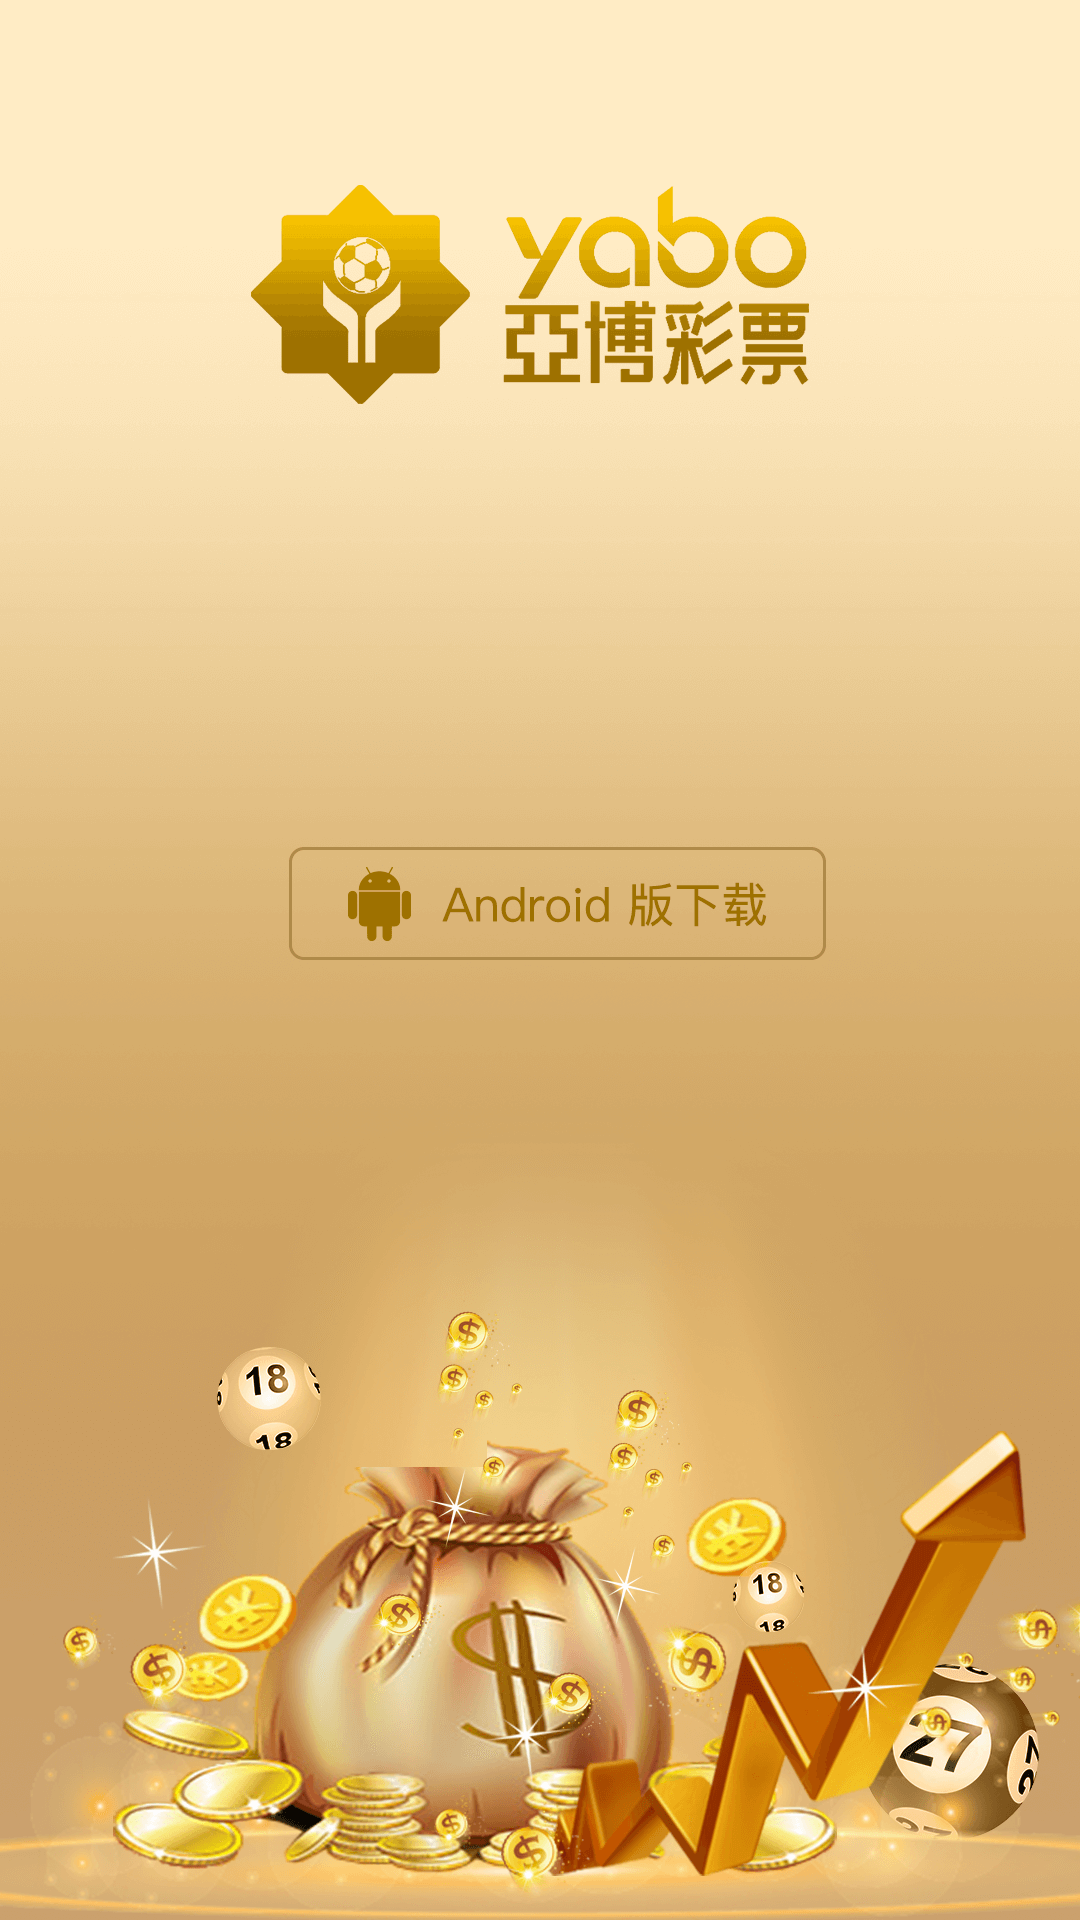
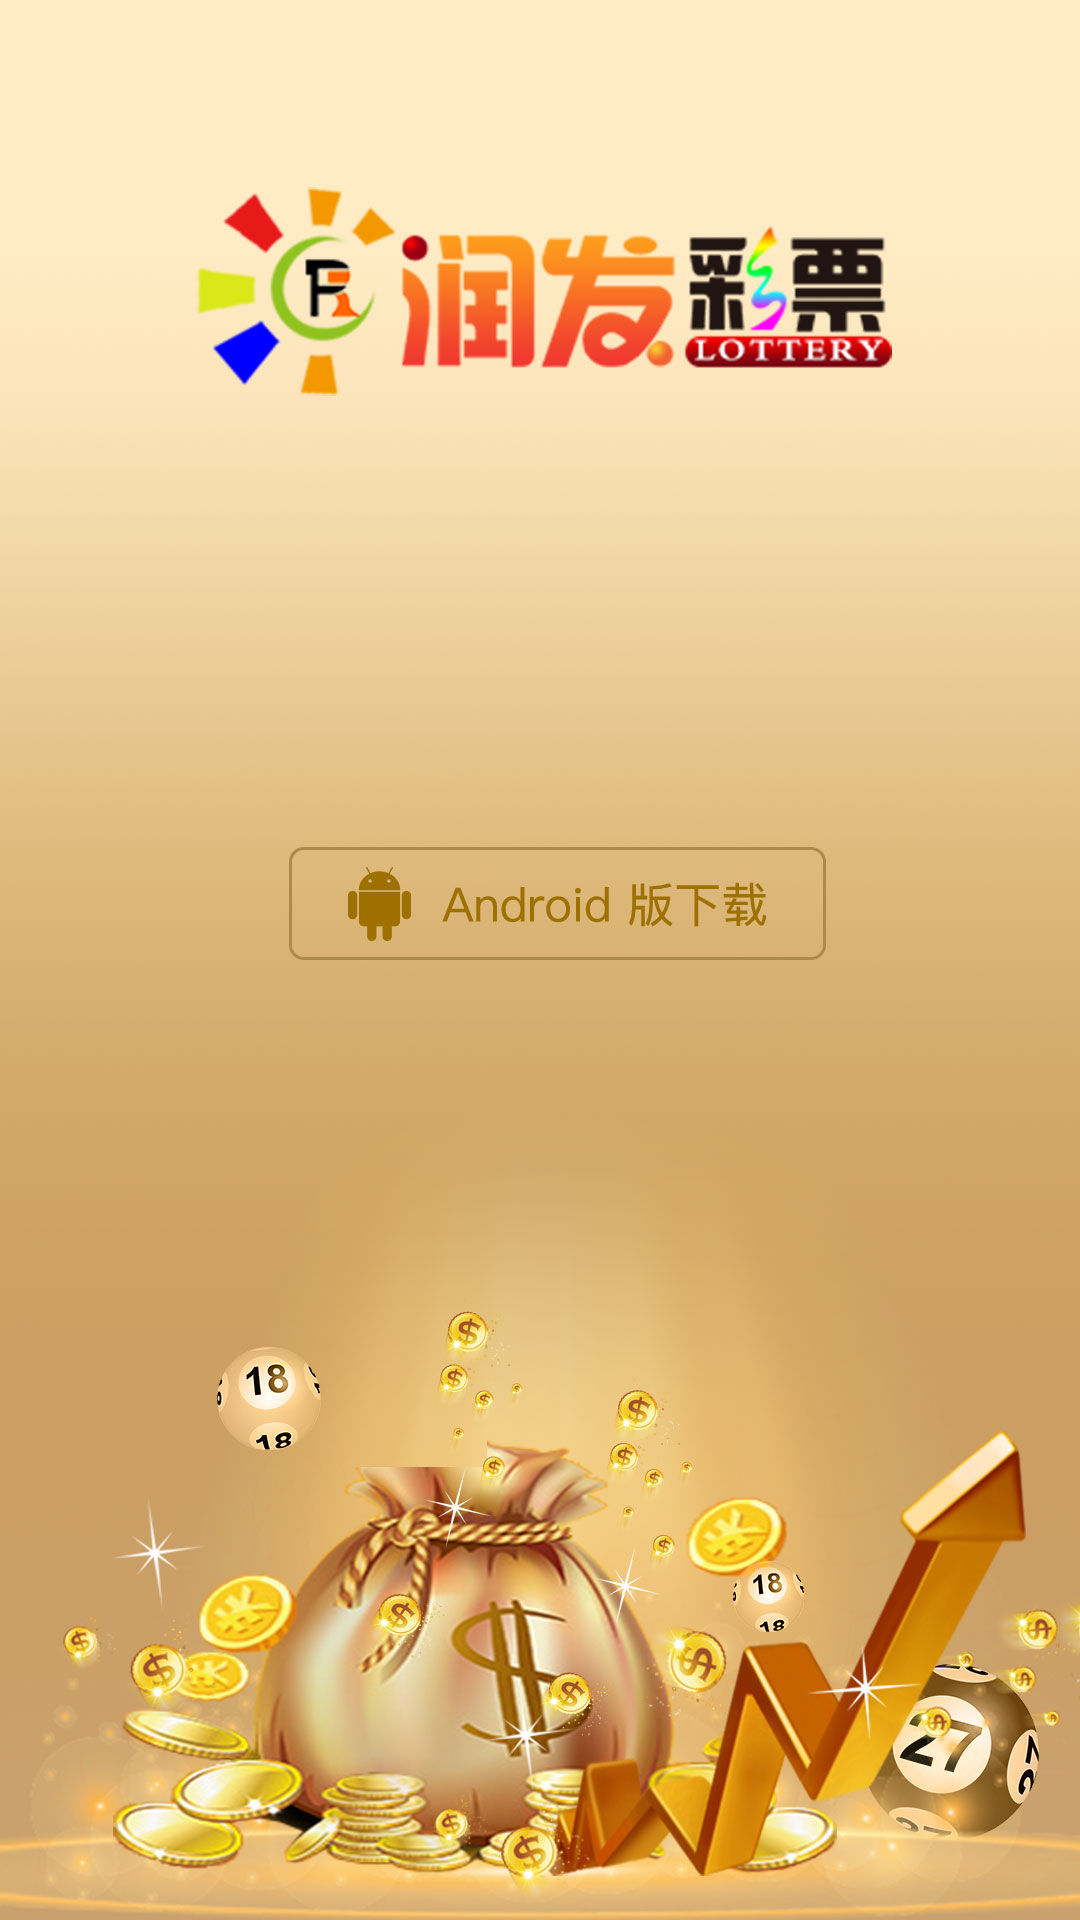
优化webpack

Changed region(s): [[0.1833, 0.0938, 0.825, 0.2188]]

diff --git a/src/router.js b/src/router.js
@@ -1,92 +1,161 @@
 
 //主入口
-import boot from './components/login/boot.vue';
-import login from './components/login/login.vue';
-import guid from './components/guid/guid.vue';
-import index from './components/index/index.vue';
-import jumpIndex from './components/index/jumpIndex.vue';
-import register from './components/register/register.vue';
-import download from "./components/download/download.vue";
-import chatroom from "./components/chatroom/chatroom.vue";
+// import boot from './components/login/boot.vue';
+const boot = () => import("./components/login/boot.vue")
+// import login from './components/login/login.vue';
+const login = () => import("./components/login/login.vue")
+// import guid from './components/guid/guid.vue';
+const guid = () => import("./components/guid/guid.vue")
+// import index from './components/index/index.vue';
+const index = () => import("./components/index/index.vue")
+// import jumpIndex from './components/index/jumpIndex.vue';
+const jumpIndex = () => import("./components/index/jumpIndex.vue")
+// import register from './components/register/register.vue';
+const register = () => import("./components/register/register.vue")
+// import download from "./components/download/download.vue";
+const download = () => import("./components/download/download.vue")
+// import chatroom from "./components/chatroom/chatroom.vue";
+const chatroom = () => import("./components/chatroom/chatroom.vue")
 
 //index 下面子路由
-import lottery from './components/lottery/lottery.vue'; //首页
-import result from './components/result/result.vue'; //开奖
-import account from './components/account/account.vue'; //账户
-import setting from './components/setting/setting.vue'; //设置
-import lotteryHome from './components/lotteryHome/lotteryHome.vue'; //彩票大厅
-
+// import lottery from './components/lottery/lottery.vue'; //首页
+const lottery = () => import("./components/lottery/lottery.vue")
+// import result from './components/result/result.vue'; //开奖
+const result = () => import("./components/result/result.vue")
+// import account from './components/account/account.vue'; //账户
+const account = () => import("./components/account/account.vue")
+// import setting from './components/setting/setting.vue'; //设置
+const setting = () => import("./components/setting/setting.vue")
+// import lotteryHome from './components/lotteryHome/lotteryHome.vue'; //彩票大厅
+const lotteryHome = () => import("./components/lotteryHome/lotteryHome.vue")
 //account 里的页面
-import betrecord from './components/account/betrecord.vue'; //投注记录
-import KgBetrecord from './components/account/kg_betrecord.vue'; //kg投注记录
-import zuihaoRecord from './components/account/zuihaoRecord.vue'; //追号记录
-import KgZuihaoRecord from './components/account/kg_zuihaoRecord.vue'; //追号记录
-import myReport from './components/account/myReport.vue'; //我的报表
-import moneyRecord from './components/account/moneyRecord.vue'; //帐变记录
-import agentCenter from './components/account/agentCenter.vue'; //代理中心
-import activity from './components/account/activity.vue'; //优惠活动
-import bonusDetails from './components/account/bonusDetails.vue'; //奖金详情
-import lotteryLimited from './components/account/lotteryLimited.vue'; //奖金详情
-import statis from './components/account/statis.vue'; //统计
-import fklb from './components/account/fklb.vue'; //反馈列表
-import fkyj from './components/account/fkyj.vue'; //反馈意见
-import email from './components/account/email.vue'; //站内信
-import emailDetails from './components/account/emailDetails.vue'; //站内信详情
-import emailSend from './components/account/emailSend.vue'; //站内信发送
-import memberManagement from './components/account/memberManagement.vue'; //会员管理
-import registerTheLink from './components/account/registerTheLink.vue'; //注册链接列表
-import newUsers from './components/account/newUsers.vue'; //新增用户
-import quotaConversion from './components/account/quotaConversion.vue'; //额度转换
-import chongzhi from './components/account/chongzhi.vue'; //充值
-import report from './components/account/report.vue'; //彩票，视讯报表
-import bettingDetails from './components/account/bettingDetails.vue'; //投注详情
-import newRegisterLink from './components/account/newRegisterLink.vue'; //新增注册链接
-import zbmx from './components/account/zbmx.vue'; //帐变明细
-import cpzb from './components/account/cpzb.vue'; //彩票账变
-import kgzb from './components/account/kgzb.vue'; //彩票账变
-import withdraw from './components/account/withdraw.vue'; //提现
-import team from './components/account/team.vue'; //报表总览,团队报表
-import teamReport from './components/account/teamReport.vue'; //团队盈亏
-import teamLottery from './components/account/teamLottery.vue'; //团队彩票
-import teamKGLottery from './components/account/teamKGLottery.vue'; //团队KG
-import generalize from './components/account/generalize.vue'; //邀请推广
+// import betrecord from './components/account/betrecord.vue'; //投注记录
+const betrecord = () => import("./components/account/betrecord.vue")
+// import KgBetrecord from './components/account/kg_betrecord.vue'; //kg投注记录
+const KgBetrecord = () => import("./components/account/kg_betrecord.vue")
+// import zuihaoRecord from './components/account/zuihaoRecord.vue'; //追号记录
+const zuihaoRecord = () => import("./components/account/zuihaoRecord.vue")
+// import KgZuihaoRecord from './components/account/kg_zuihaoRecord.vue'; //追号记录
+const KgZuihaoRecord = () => import("./components/account/kg_zuihaoRecord.vue")
+// import myReport from './components/account/myReport.vue'; //我的报表
+const myReport = () => import("./components/account/myReport.vue")
+// import moneyRecord from './components/account/moneyRecord.vue'; //帐变记录
+const moneyRecord = () => import("./components/account/moneyRecord.vue")
+// import agentCenter from './components/account/agentCenter.vue'; //代理中心
+const agentCenter = () => import("./components/account/agentCenter.vue")
+// import activity from './components/account/activity.vue'; //优惠活动
+const activity = () => import("./components/account/activity.vue")
+// import bonusDetails from './components/account/bonusDetails.vue'; //奖金详情
+const bonusDetails = () => import("./components/account/bonusDetails.vue")
+// import lotteryLimited from './components/account/lotteryLimited.vue'; //奖金详情
+const lotteryLimited = () => import("./components/account/lotteryLimited.vue")
+// import statis from './components/account/statis.vue'; //统计
+const statis = () => import("./components/account/statis.vue")
+// import fklb from './components/account/fklb.vue'; //反馈列表
+const fklb = () => import("./components/account/fklb.vue")
+// import fkyj from './components/account/fkyj.vue'; //反馈意见
+const fkyj = () => import("./components/account/fkyj.vue")
+// import email from './components/account/email.vue'; //站内信
+const email = () => import("./components/account/email.vue")
+// import emailDetails from './components/account/emailDetails.vue'; //站内信详情
+const emailDetails = () => import("./components/account/emailDetails.vue")
+// import emailSend from './components/account/emailSend.vue'; //站内信发送
+const emailSend = () => import("./components/account/emailSend.vue")
+// import memberManagement from './components/account/memberManagement.vue'; //会员管理
+const memberManagement = () => import("./components/account/memberManagement.vue")
+// import registerTheLink from './components/account/registerTheLink.vue'; //注册链接列表
+const registerTheLink = () => import("./components/account/registerTheLink.vue")
+// import newUsers from './components/account/newUsers.vue'; //新增用户
+const newUsers = () => import("./components/account/newUsers.vue")
+// import quotaConversion from './components/account/quotaConversion.vue'; //额度转换
+const quotaConversion = () => import("./components/account/quotaConversion.vue")
+// import chongzhi from './components/account/chongzhi.vue'; //充值
+const chongzhi = () => import("./components/account/chongzhi.vue")
+// import report from './components/account/report.vue'; //彩票，视讯报表
+const report = () => import("./components/account/report.vue")
+// import bettingDetails from './components/account/bettingDetails.vue'; //投注详情
+const bettingDetails = () => import("./components/account/bettingDetails.vue")
+// import newRegisterLink from './components/account/newRegisterLink.vue'; //新增注册链接
+const newRegisterLink = () => import("./components/account/newRegisterLink.vue")
+// import zbmx from './components/account/zbmx.vue'; //帐变明细
+const zbmx = () => import("./components/account/zbmx.vue")
+// import cpzb from './components/account/cpzb.vue'; //彩票账变
+const cpzb = () => import("./components/account/cpzb.vue")
+// import kgzb from './components/account/kgzb.vue'; //彩票账变
+const kgzb = () => import("./components/account/kgzb.vue")
+// import withdraw from './components/account/withdraw.vue'; //提现
+const withdraw = () => import("./components/account/withdraw.vue")
+// import team from './components/account/team.vue'; //报表总览,团队报表
+const team = () => import("./components/account/team.vue")
+// import teamReport from './components/account/teamReport.vue'; //团队盈亏
+const teamReport = () => import("./components/account/teamReport.vue")
+// import teamLottery from './components/account/teamLottery.vue'; //团队彩票
+const teamLottery = () => import("./components/account/teamLottery.vue")
+// import teamKGLottery from './components/account/teamKGLottery.vue'; //团队KG
+const teamKGLottery = () => import("./components/account/teamKGLottery.vue")
+// import generalize from './components/account/generalize.vue'; //邀请推广
+const generalize = () => import("./components/account/generalize.vue")
 
 //setting 里的页面
-import bankControl from './components/setting/bankControl.vue'; //银行卡管理
-import userInfor from './components/setting/userInfor.vue'; //用户信息
-import loadPassword from './components/setting/loadPassword.vue'; //修改登录密码
-import addBankcard from './components/setting/addBankcard.vue'; //添加银行卡
-import modifyPassword from './components/setting/modifyPassword.vue'; //修改资金密码
-import moreInfo from './components/setting/moreInfo.vue'; //更多信息
-import maintain from './components/maintain/maintain.vue'; //维护页面
-import notice from './components/setting/notice.vue'; //公告页面
-import question from './components/setting/question.vue'; //公告页面
-import method from './components/setting/method.vue'; //玩法说明页面
-import explain from './components/kggame/explain/explain.vue'; //玩法说明页面
-
+// import bankControl from './components/setting/bankControl.vue'; //银行卡管理
+const bankControl = () => import("./components/setting/bankControl.vue")
+// import userInfor from './components/setting/userInfor.vue'; //用户信息
+const userInfor = () => import("./components/setting/userInfor.vue")
+// import loadPassword from './components/setting/loadPassword.vue'; //修改登录密码
+const loadPassword = () => import("./components/setting/loadPassword.vue")
+// import addBankcard from './components/setting/addBankcard.vue'; //添加银行卡
+const addBankcard = () => import("./components/setting/addBankcard.vue")
+// import modifyPassword from './components/setting/modifyPassword.vue'; //修改资金密码
+const modifyPassword = () => import("./components/setting/modifyPassword.vue")
+// import moreInfo from './components/setting/moreInfo.vue'; //更多信息
+const moreInfo = () => import("./components/setting/moreInfo.vue")
+// import maintain from './components/maintain/maintain.vue'; //维护页面
+const maintain = () => import("./components/maintain/maintain.vue")
+// import notice from './components/setting/notice.vue'; //公告页面
+const notice = () => import("./components/setting/notice.vue")
+// import question from './components/setting/question.vue'; //公告页面
+const question = () => import("./components/setting/question.vue")
+// import method from './components/setting/method.vue'; //玩法说明页面
+const method = () => import("./components/setting/method.vue")
+// import explain from './components/kggame/explain/explain.vue'; //玩法说明页面
+const explain = () => import("./components/kggame/explain/explain.vue")
 //result 里的页面
-import lotteryInformationTrend from './components/result/lotteryInformationTrend.vue'; //开奖信息
-
+// import lotteryInformationTrend from './components/result/lotteryInformationTrend.vue'; //开奖信息
+const lotteryInformationTrend = () => import("./components/result/lotteryInformationTrend.vue")
 //lottery 里的页面
-import lotteryBet from './components/lottery/lotteryBet.vue'; //彩票投注
-import lotteryTrend from './components/lottery/lotteryTrend.vue'; //走势图
-import bettingList from './components/lottery/bettingList.vue'; //投注列表
-import lotteryFavorites from './components/lottery/lotteryFavorites.vue';
-import lotteryFavoritesEdit from './components/lottery/lotteryFavoritesEdit.vue';
-import thirdGame from './components/lottery/thirdGame.vue';
-import appTrend from './components/lottery/appTrend.vue';
+// import lotteryBet from './components/lottery/lotteryBet.vue'; //彩票投注
+const lotteryBet = () => import("./components/lottery/lotteryBet.vue")
+// import lotteryTrend from './components/lottery/lotteryTrend.vue'; //走势图
+const lotteryTrend = () => import("./components/lottery/lotteryTrend.vue")
+// import bettingList from './components/lottery/bettingList.vue'; //投注列表
+const bettingList = () => import("./components/lottery/bettingList.vue")
+// import lotteryFavorites from './components/lottery/lotteryFavorites.vue';
+const lotteryFavorites = () => import("./components/lottery/lotteryFavorites.vue")
+// import lotteryFavoritesEdit from './components/lottery/lotteryFavoritesEdit.vue';
+const lotteryFavoritesEdit = () => import("./components/lottery/lotteryFavoritesEdit.vue")
+// import thirdGame from './components/lottery/thirdGame.vue';
+const thirdGame = () => import("./components/lottery/thirdGame.vue")
+// import appTrend from './components/lottery/appTrend.vue';
+const appTrend = () => import("./components/lottery/appTrend.vue")
 
 //kggame 页面
-import kgGameBet from './components/kggame/kgGameBet.vue'; //kg投注
+// import kgGameBet from './components/kggame/kgGameBet.vue'; //kg投注
+const kgGameBet = () => import("./components/kggame/kgGameBet.vue")
 
-
-import trdPlatformAuth from './components/trdPlatform/trdPlatformAuth.vue';
-import bindUser from './components/trdPlatform/bindUser.vue'; //绑定登录
-import newBindUser from './components/trdPlatform/newBindUser.vue'; //绑定登录
-import autoRegSuccessed from './components/trdPlatform/autoRegSuccessed.vue'; //绑定成功
-import trdAuthSuccessed from './components/trdPlatform/trdAuthSuccessed.vue'; //绑定成功
-import createUser from './components/trdPlatform/createUser.vue'; //注册绑定登录
-import newCreateUser from './components/trdPlatform/newCreateUser.vue'; //注册绑定登录
+// import trdPlatformAuth from './components/trdPlatform/trdPlatformAuth.vue';
+const trdPlatformAuth = () => import("./components/trdPlatform/trdPlatformAuth.vue")
+// import bindUser from './components/trdPlatform/bindUser.vue'; //绑定登录
+const bindUser = () => import("./components/trdPlatform/bindUser.vue")
+// import newBindUser from './components/trdPlatform/newBindUser.vue'; //绑定登录
+const newBindUser = () => import("./components/trdPlatform/newBindUser.vue")
+// import autoRegSuccessed from './components/trdPlatform/autoRegSuccessed.vue'; //绑定成功
+const autoRegSuccessed = () => import("./components/trdPlatform/autoRegSuccessed.vue")
+// import trdAuthSuccessed from './components/trdPlatform/trdAuthSuccessed.vue'; //绑定成功
+const trdAuthSuccessed = () => import("./components/trdPlatform/trdAuthSuccessed.vue")
+// import createUser from './components/trdPlatform/createUser.vue'; //注册绑定登录
+const createUser = () => import("./components/trdPlatform/createUser.vue")
+// import newCreateUser from './components/trdPlatform/newCreateUser.vue'; //注册绑定登录
+const newCreateUser = () => import("./components/trdPlatform/newCreateUser.vue")
 
 
 

diff --git a/src/assets/platform/main/platform.less b/src/assets/platform/main/platform.less
@@ -1,8 +1,8 @@
 
-@main-color:#d4b97a; // 主色调
-@btn-color: #d4b97a;//button 色调
-@btn-color02: #d4b97a;//button 深色调
-@numball-color:#d4b97a;//球色调
+@main-color:#ddba7d; // 主色调
+@btn-color: #ff3334;//button 色调
+@btn-color02: #f41112;//button 深色调
+@numball-color:#f41112;//球色调
 @tips01-color:#09516a;//小tips 01 
 @tips02-color:#008000;//小tips 02
 
@@ -12,17 +12,17 @@
 @login-btn-color:#292c35; //登陆页面登陆文字颜色
 @reg-input-title:#fff; //注册页面字体颜色
 
-@active-color: #d4b97a; //主色调 active
-@assist-color: #d4b97a; //辅色调
-@main-color-low: #d4b97a;
+@active-color: #f64243; //主色调 active
+@assist-color: #ddba7d; //辅色调
+@main-color-low: #ddba7d;
 
 
-@header-bg-left:#d4b97a;
-@header-bg-right:#d4b97a;
+@header-bg-left:#ddba7d;
+@header-bg-right:#ddba7d;
 
-@numball-color-left:#d4b97a;//号码选中颜色
-@numball-color-right:#d4b97a;
-@numball-color-shadow:#d4b97a;
+@numball-color-left:#ddba7d;//号码选中颜色
+@numball-color-right:#ddba7d;
+@numball-color-shadow:#ddba7d;
 @numball-font-color:#555555;
 @numball-font-color-kg:#555555;
 
@@ -31,23 +31,23 @@
 @lottery-list-header-bg-right:#B2941D;
 @lottery-chase-bg:#ffffff;
 @lottery-chase-color:#FF613A;
-@lottery-chase-checkbox-color:#d4b97a;
+@lottery-chase-checkbox-color:#FF4E3A;
 @tab-nav-box-font-color:#333333;
-@result-num-font-color:#d4b97a;
-@shopping-text-color:#d4b97a;
-@shopping-smg-bg-color:#d4b97a;
+@result-num-font-color:#FF4E3A;
+@shopping-text-color:#FF4E3A;
+@shopping-smg-bg-color:#FF4E3A;
 @lottery-betting-nav-font-color:#333333;
 @trend-tab-color:#333333;
 @index-login-to-font:#ffffff;
 @login-left-font:#ffffff;
 @footer-bg:#ffffff;//底部背景颜色
-@footer-font-color:#d4b97a;//底部字体颜色
+@footer-font-color:#ddba7d;//底部字体颜色
 
 
 //各平台配色 字体颜色
 @font-main-color:#fff; // title 字体颜色 个人中心 btn颜色
 @font-lottery-tag:#864727; //lotteryBet 页面 彩票、kg、聊天室字体颜色
 @font-lottery-tag-active:#000; //lotteryBet 页面 彩票、kg、聊天室字体颜色
-@font-account-icon:#d4b97a;
+@font-account-icon:#ddba7d;
 
 

diff --git a/src/assets/platform/main/platformData.js b/src/assets/platform/main/platformData.js
@@ -1,9 +1,9 @@
 export default {
     setting: {
         code: "my",
-        name: "亚博彩票",
-        title: "亚博彩票",
-        url: "http://ybcp918.com/",
+        name: "润发彩票",
+        title: "润发彩票",
+        url: "http://rf012.com/",
         allowTryPlay: true,
         allowRemoteUrl: true,
         mlink: '', //唤醒app
@@ -25,6 +25,7 @@ export default {
     ],
 
     lotteryGames: [
+
         // { id: 205, name: "欢乐球", logo: "icon_hlffc.png", type: "sscrules" },
         { id: 63, name: "腾讯分分彩", logo: "icon_txffc.png", type: "sscrules" },
         { id: 202, name: "五分PK10", logo: "bdb5fpk10.png", type: "pk10rules", displayType: "klc", },
@@ -112,7 +113,9 @@ export default {
             list: [
             { id: 10003, vrId: 1, name: "火星5分彩", platform: "VR",permissionKey: "火星5分彩",image: "vr_cp.png",type: 1},
             ]
-        },{
+        },
+
+        {
             code: "live",
             name: "视讯",
             permissionKey: "视讯直播",

diff --git a/webpack.config.js b/webpack.config.js
@@ -17,7 +17,7 @@ var objPlatform = {
 var index = 0;//index=0 本机开发； index=1 本机打包
 
 //打包的平台编码  
-var lotteryPlatform = objPlatform[3];
+var lotteryPlatform = objPlatform[1];
 
 if(!lotteryPlatform){
     console.log('平台不存在')
@@ -102,10 +102,6 @@ var webpackConfig = {
                 );
             }
         }),
-        new webpack.ProvidePlugin({
-            jQuery: "jquery",
-            $: "jquery",
-        }),
     ],
     // 加载器
     module: {
@@ -155,9 +151,12 @@ var webpackConfig = {
                     name: outputStaticPath + '/img/[name].[ext]'
                 }
             }
-        ]
+        ],
     },
-
+    externals:{
+        jQuery: "jquery",
+        $: "jquery",
+    }
 };
 
 

diff --git a/src/components/account/quotaConversion.vue b/src/components/account/quotaConversion.vue
@@ -101,7 +101,6 @@
 
     import platformData from "../../assets/platform/main/platformData"
     import kgBusiness from "../../assets/js/business/lottery/kg/kgBusiness"
-    import _ from 'lodash';
     export default {
         data () {
             return {

diff --git a/src/components/kggame/kgGameBet.vue b/src/components/kggame/kgGameBet.vue
@@ -290,7 +290,6 @@
     import xyxzSB from "./xyxz/lhcSB.vue"
     import xyxzTWS from "./xyxz/lhcTWS.vue"
     import xyxzHX from "./xyxz/lhcHX.vue"
-    import _ from 'lodash';
     export default {
 
         data () {
